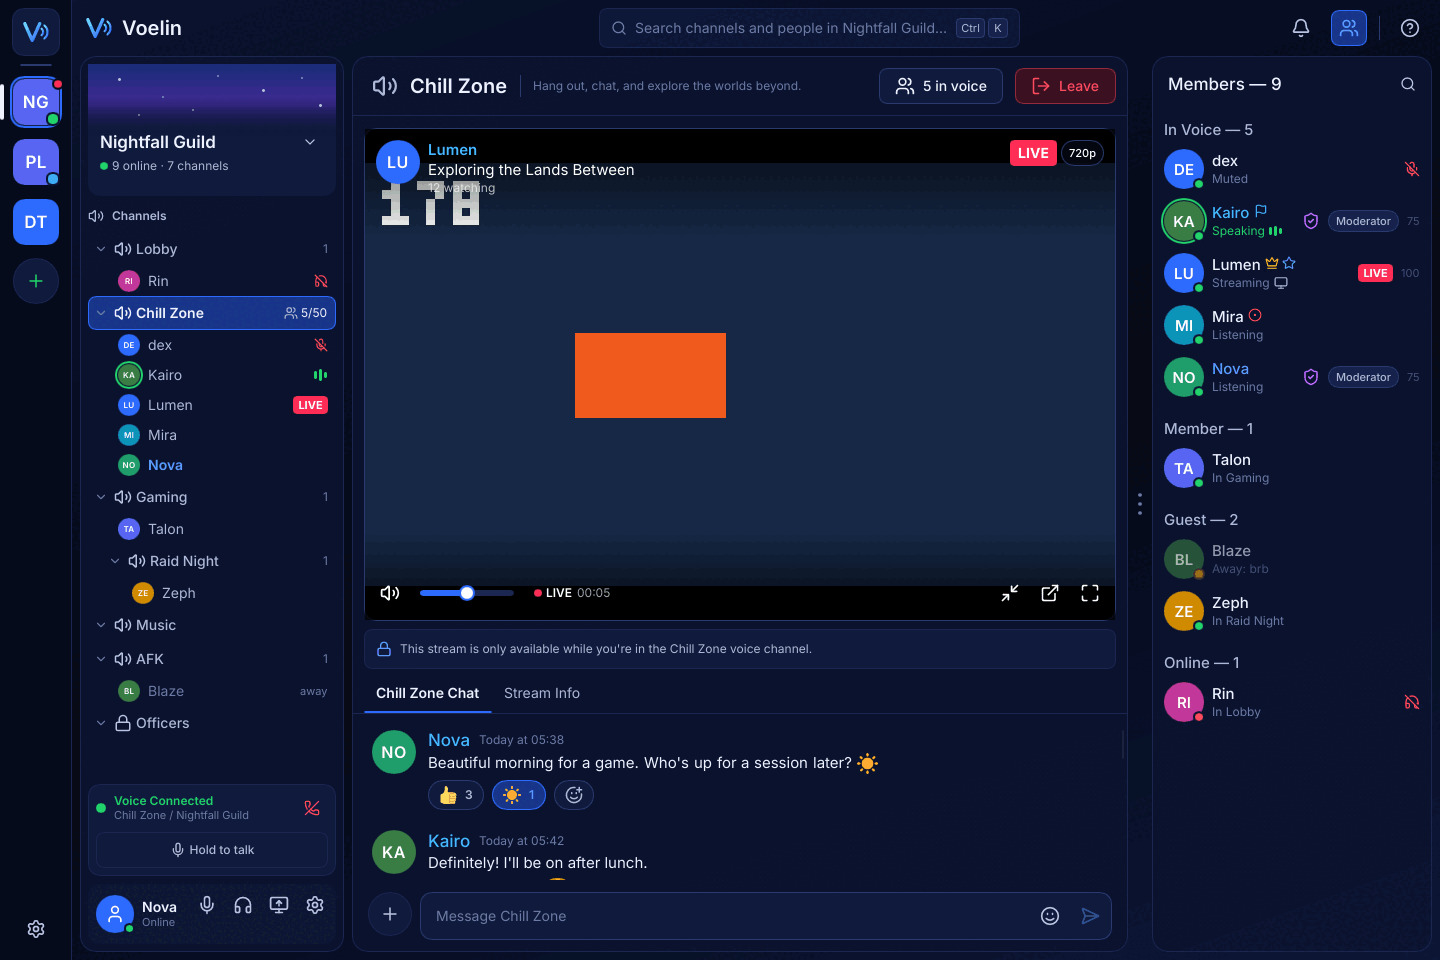
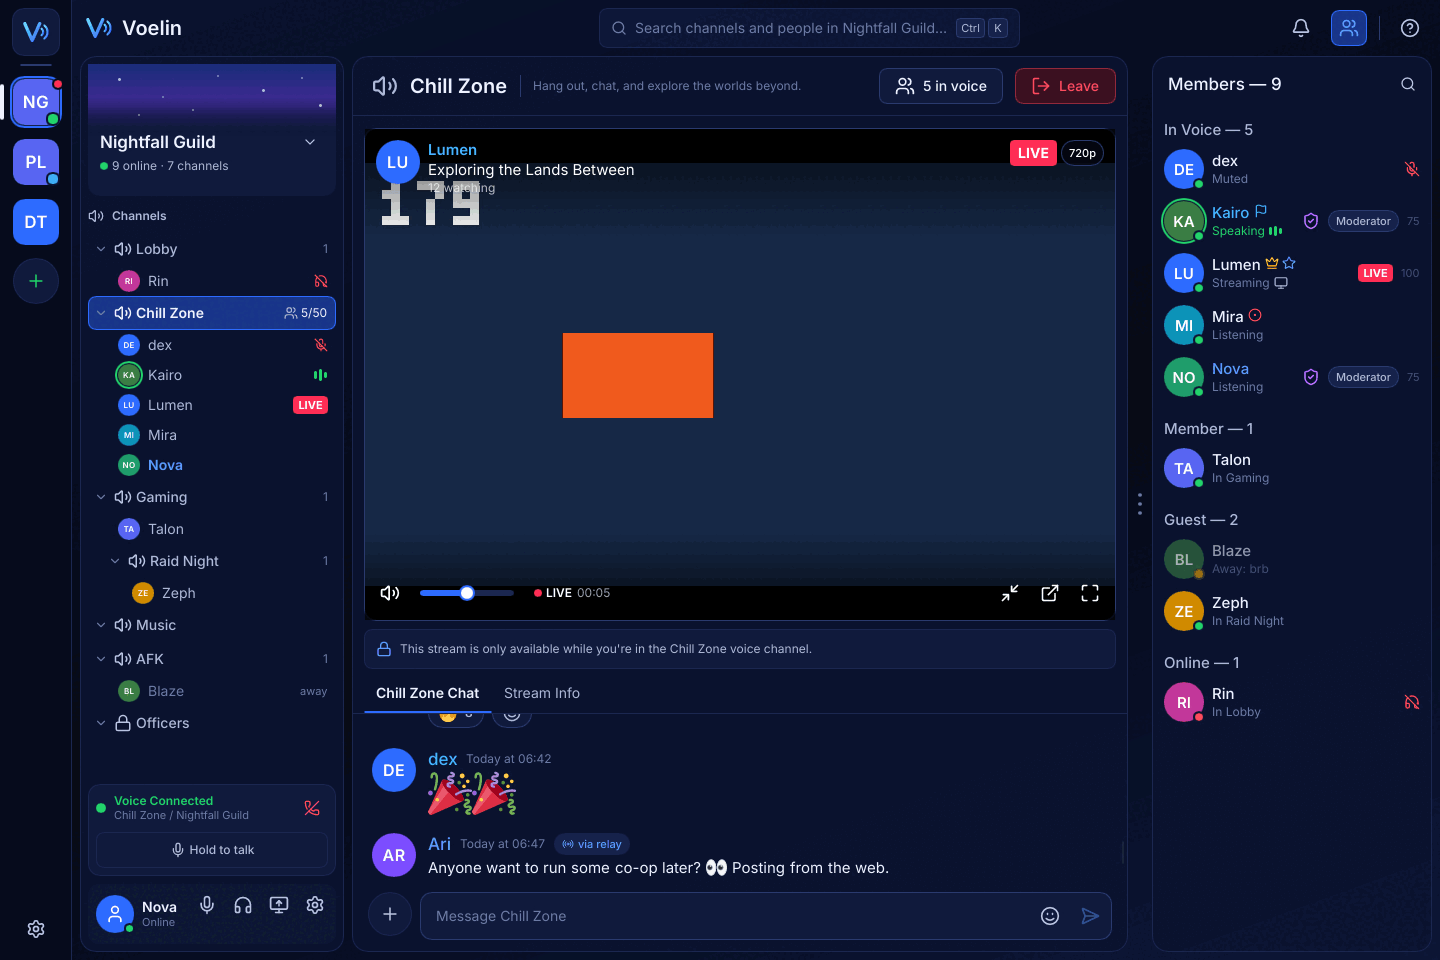
Describe the server page in docs/ui.md; screenshots of its final state
docs/ui.md gains a section on the server page: each part (chat, members
panel, member card, pins, topics, voice channel, watching a stream), the
`VOELIN_OPEN` switch that shows it, and the engine events and requests
it uses. The settings table lists `ui.members_width`, the switches and
the screenshot script are described as they now work, and the limits say
what the design shows that we leave out (offline members, a quality
picker without layer information, a second window for the pop-out).

The screenshots are taken again so they all show the chat at its newest
message. The user card's avatar has the green ring while our voice goes
out, the speaking indicator of the compact voice controls.

Changed region(s): [[0.25, 0.75, 0.625, 0.9375], [0.4688, 0.3438, 0.5312, 0.4375], [0.375, 0.3438, 0.4062, 0.4375]]

diff --git a/docs/ui.md b/docs/ui.md
@@ -22,13 +22,14 @@ crates/voelin-ui/
     components/          the design system (catalogue below); index.slint exports all
     shells/              desktop.slint (rail, top bar, Sidebar), mobile.slint (bottom
                          navigation), common.slint (Panel, VoiceCard, UserCard, ...)
-    screens/             channels, chat, streams (panel and viewer), settings, home,
-                         dialogs, mobile (phone-only pages)
+    screens/             channels, chat, members (panel, card), drawers (pins, topics),
+                         voice (the voice channel), streams (viewer; the phone's
+                         panel), settings, home, dialogs, mobile (phone-only pages)
     assets/              fonts/ (Inter, OFL), icons/ (Lucide, ISC), logo.svg
   assets/twemoji.bin     the Twemoji SVGs packed by scripts/pack-twemoji.py
   src/
     app.rs               setup, App state, event dispatch
-    servers.rs chat.rs streams.rs settings_page.rs appearance.rs
+    servers.rs chat.rs members.rs streams.rs settings_page.rs appearance.rs
                          the logic of each area
     vm/                  pure view models (engine state → Slint structs), unit-tested
     bind/                callbacks of each area, wired once
@@ -62,7 +63,7 @@ literal colours.
 | Radii | `radius-xs` 4, `radius-sm` 6, `radius-md` 8, `radius-lg` 12, `radius-xl` 16, `radius-pill` |
 | Spacing | `space-1` 2 … `space-8` 32 (2, 4, 8, 12, 16, 20, 24, 32) |
 | Type (scaled) | `font-xs` 11, `font-sm` 12, `font-body` 14, `font-md` 15, `font-lg` 17, `font-xl` 20, `font-2xl` 24, `font-3xl` 30; `weight-regular` … `weight-bold` |
-| Sizes | `row-height`, `control-height` 36, `control-height-sm` 28, `icon-sm/md/lg` 16/20/24, `rail-width` 72, `sidebar-width` 264 (grows with the font scale), `topbar-height` 56, `right-panel-min/max` |
+| Sizes | `row-height`, `control-height` 36, `control-height-sm` 28, `icon-sm/md/lg` 16/20/24, `rail-width` 72, `sidebar-width` 264 (grows with the font scale), `topbar-height` 56, `right-panel-min` |
 | Motion | `fast` 120 ms, `normal` 200 ms |
 
 A light palette is filled in for every colour; `mode` switches at runtime.
@@ -119,6 +120,26 @@ Shell pieces (ui/shells/): `DesktopShell` (rail + top bar + panels as
 `Panel`, `ServerRail`, `TopBar`, `MobileShell` (top bar, page, bottom
 navigation), `VoiceCard`, `VoiceButtons`, `UserCard`, `HoldToTalk`.
 
+## The server page
+
+The server page follows the design mockups 03 to 08 (desktop). Each part
+comes from the engine's events; what a gateway adds is hidden without it.
+
+| Part | `VOELIN_OPEN` | What it shows | Engine data |
+|---|---|---|---|
+| Chat | `server` | Header with Pinned Messages, Topics, the voice channel and the members button; chat tabs; messages grouped by author ("Today at 10:14"), avatars, emoji, reactions with an add button, pin and topic marks, file cards with download; composer with attach, emoji and send. Opens at the newest message and follows new ones while at the end | `ChatHistory` (and `Chat` for servers without history), `AvatarReady`, `Transfer`, `Gateway` (pins; reactions arrive as stored messages); `Command::LoadOlderHistory`, `DownloadChatFile`, `UploadFile`, `GatewayRequest::React`, `Unreact`, `Pin`, `Unpin` |
+| Members panel | `server` (`panel`, `no-panel`) | "Members — N" and a search; those streaming first (the people in our channel while the voice channel or a stream is shown), then each server group in the server's order with its icon, then those without a group. Rows: avatar with status, name, crown (admin groups), priority speaker, channel commander, recording, moderator role, talk power, what they do or the channel they are in. Resizable: the width is `ui.members_width` | `Presence`, `Groups`, `Talking`, `IconReady` |
+| Member card | `member` | Description, groups, talk power, country; private message, poke, friend, block; volume and mute for us | `ContactsChanged`; `Command::SetContact`, `SetClientVolume`, `SetClientMuted`, `Poke` |
+| Pinned messages | `pins` | In the members panel's place: cards with author, time, text, files and reactions; the pin unpins, a click jumps to the message | `Gateway` `Pins`, `Pinned`, `Unpinned`; `GatewayRequest::Pins`, `Unpin` |
+| Topics | `topics`, `topic:<id>` | In the members panel's place: search, cards with the message count, creator and last activity, Create Topic; an open topic replaces the chat's messages and takes replies | `Gateway` `Topics`, `Topic`, `TopicHistory`; `GatewayRequest::Topics`, `TopicHistory`, `CreateTopic`, `Post` |
+| Voice channel | `voice` | Title, topic, "5 in voice / 50 total", Voice Settings, Leave; the people as large avatars (talking ring and bars, muted, crown, streaming); the streams as cards (LIVE, viewers, kind, bitrate, sound, Watch Stream); the channel's chat | `Presence`, `Talking`, `StreamsChanged`, `Gateway` stream directory (viewer counts) |
+| Watching a stream | `watch`, `popout` | The channel's header with "5 in voice" and Leave; the player with the streamer, title, viewers, LIVE, the picture's height (the simulcast picker when the streamer offers layers), volume, elapsed time, back to the chat, pop out, full screen; a note that the stream belongs to the channel; the channel's chat and a Stream Info tab. Popped out (and in full screen) it fills the window | `WatchState`, decoded frames (`src/video.rs`), `Gateway` stream directory |
+
+The pins and topics share the place of the members panel: opening one
+closes the other, and the members button brings the panel back. On the
+phone the chat is the Chat tab and the members of our channel are on the
+Activity tab.
+
 ## Adding a screen
 
 1. Write the screen in `ui/screens/<name>.slint` from the components
@@ -150,6 +171,7 @@ live when they change (settings page, `--set`, another window):
 | `ui.font_scale` | number above 0 | 1.0 | every type size |
 | `ui.narrow_breakpoint` | pixels | 800 | below this width the phone layout |
 | `ui.image_cache_mb` | megabytes | 64 | decoded images kept in memory (0: none) |
+| `ui.members_width` | pixels | 280 | width of the members panel (dragging its edge sets it) |
 
 In a config file write them as dotted keys at the top level
 (`"ui.theme" = "light"`): a `[ui]` table is read as the `ui` value.
@@ -180,7 +202,10 @@ Environment variables (see `src/dev.rs`):
   a stream, without a server (nothing is stored).
 - `VOELIN_OPEN=<what>[,<what>...]`: `home`, `server`, `settings[:voice|keybinds|streaming|privacy|appearance]`,
   `about`, `share`, `bookmark`, `emoji`, `client`, `panel`, `no-panel`,
-  `tab:<home|servers|chat|activity|you>` (phone layout).
+  `voice`, `pins`, `topics`, `topic:<id>`, `member`, `watch`, `popout`
+  (the server page, above), `tab:<home|servers|chat|activity|you>` (phone
+  layout). With sample data, `watch` plays the local test pattern in the
+  sample stream's place.
 - `VOELIN_WINDOW_SIZE=390x844`: window size (phone layout below the breakpoint).
 - `VOELIN_SCREENSHOT=<png>`, `VOELIN_SCREENSHOT_DELAY=<s>`: save the window and exit.
 - `VOELIN_DEMO_STREAM=1`, `VOELIN_AUTOCONNECT`, `VOELIN_AUTOWATCH`,
@@ -197,17 +222,28 @@ xvfb-run -a -s "-screen 0 1440x960x24" target/debug/voelin
 
 Remove `WAYLAND_DISPLAY` as above in a Wayland session: winit prefers
 Wayland, so the window would open on the desktop instead of on the Xvfb
-server (and take whatever size the compositor gives it). The pictures in
+server (and take whatever size the compositor gives it). The script also
+turns FFmpeg off (`VOELIN_FFMPEG=0`: probing hardware encoders is not
+needed for pictures and has crashed in a driver), makes the screen twice
+the window's size so the pointer is not over the window, and passes
+`$ARGS` to the app (`ARGS="--set ui.theme=light"`). The pictures in
 `docs/screenshots/` were made this way (reduced to 256 colours with
 `convert -colors 256 PNG8:`).
 
+| Server page | |
+|---|---|
+| ![chat and members](screenshots/desktop-server.png) | ![voice channel](screenshots/desktop-voice.png) |
+| ![pinned messages](screenshots/desktop-pins.png) | ![topics](screenshots/desktop-topics.png) |
+| ![a topic](screenshots/desktop-topic.png) | ![member card](screenshots/desktop-member-card.png) |
+| ![watching a stream](screenshots/desktop-stream-viewer.png) | ![popped out](screenshots/desktop-popout.png) |
+
 | Desktop | |
 |---|---|
-| ![home](screenshots/desktop-home.png) | ![viewer](screenshots/desktop-stream-viewer.png) |
+| ![home](screenshots/desktop-home.png) | ![light](screenshots/desktop-light.png) |
 | ![settings](screenshots/desktop-settings-voice.png) | ![appearance](screenshots/desktop-settings-appearance.png) |
-| ![emoji](screenshots/desktop-emoji-picker.png) | ![light](screenshots/desktop-light.png) |
+| ![emoji](screenshots/desktop-emoji-picker.png) | ![volume](screenshots/desktop-client-volume.png) |
 | ![share](screenshots/desktop-share-dialog.png) | ![add server](screenshots/desktop-add-server.png) |
-| ![about](screenshots/desktop-about.png) | ![volume](screenshots/desktop-client-volume.png) |
+| ![about](screenshots/desktop-about.png) | |
 
 | Phone layout | | | | |
 |---|---|---|---|---|
@@ -217,6 +253,16 @@ server (and take whatever size the compositor gives it). The pictures in
 
 - No drop shadows or blur (the software renderer draws none): glows are
   translucent rings, the backdrop is a gradient rectangle.
-- Avatars are initials on a colour from the name; the image cache is ready
-  for pictures (server icons, avatars) once the engine provides them.
+- Avatars are the clients' pictures from the engine's cache
+  (`AvatarReady`), or initials on a colour from the name; group icons come
+  from `IconReady`.
+- The members panel lists the people online: TeamSpeak tells a client
+  nothing about offline members, so the mockup's "Offline" section and a
+  server-wide member count are left out.
+- The quality picker shows only when the streamer's simulcast layers are
+  known; the engine does not yet tell a viewer which layers a stream has,
+  so in practice the player shows the decoded picture's height.
+- Popping the stream out fills the main window (no second window yet).
+- A jump to a pinned message scrolls to where an average row would be
+  (rows differ in height), and only to messages already loaded.
 - The window keeps its native decorations (no custom title bar).
